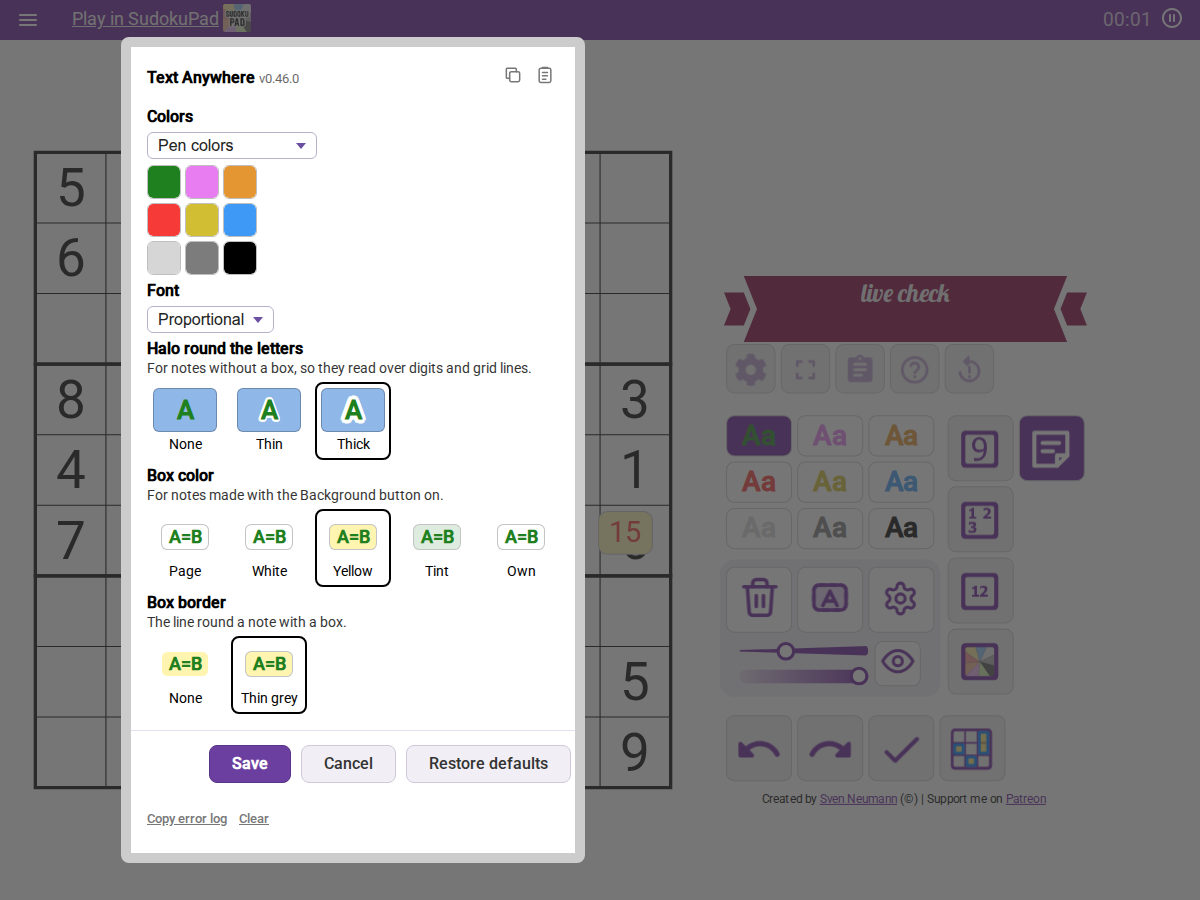
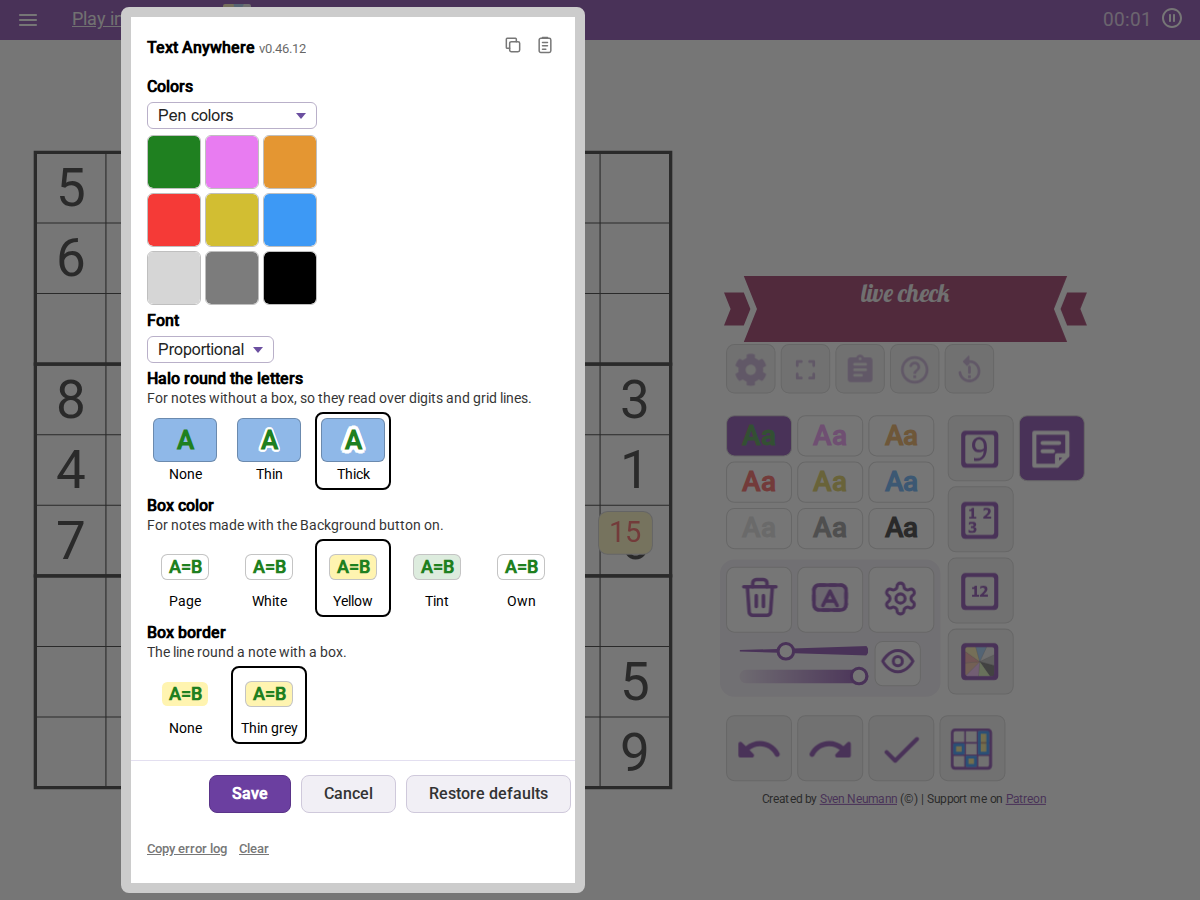
Settings dialogs: the swatch grid is as wide as the preset pulldown (#802) (#811)
* Settings dialogs: the swatch grid is as wide as the preset pulldown (#802)

* Retake Pen Tool Extras slide 16 with the swatch grid as wide as the pulldown (#802)

Closes #802

* Swatch grid: keep the Font pulldown shrink-to-fit, size the grid against the block as the pulldown is, check swatch edges in Text Anywhere's test, retake its dialog picture (#802)

Closes #802

---------

Changed region(s): [[0.0925, 0.0, 0.4933, 0.9956]]

diff --git a/text-anywhere.user.js b/text-anywhere.user.js
@@ -1,7 +1,7 @@
 // ==UserScript==
 // @name         SudokuPad Text Anywhere
 // @namespace    https://github.com/caneff/sudokupad-scripts
-// @version      0.46.8
+// @version      0.46.12
 // @description  Adds a Text Anywhere tool for typed notes on the board or beside it, such as cage sums, in colors of its own. Each puzzle keeps its own notes.
 // @match        https://sudokupad.app/*
 // @match        https://*.sudokupad.app/*
@@ -16,7 +16,7 @@
 (function () {
   'use strict'
 
-  const VERSION = '0.46.8'
+  const VERSION = '0.46.12'
   const TOOL_NAME = 'textanywhere'
   const LAYER_ID = 'text-anywhere-layer'
   const DIALOG_BLUR_PX = 8
@@ -964,6 +964,10 @@
       `${at('color-choice')} { box-sizing: border-box; width: 0; min-width: 100%; margin: 0; font-size: 1rem; padding: 4px 28px 4px 10px; border: 1px solid #b9b0c9; border-radius: 6px; appearance: none; color: #222; background: #fff ${CHOICE_ARROW} no-repeat right 10px center; }`,
       `${at('color-row')} { display: flex; align-items: flex-start; gap: 12px; }`,
       `${at('swatches')} { display: grid; grid-template-columns: repeat(${PICKER_COLUMNS}, ${SWATCH_PX}px); gap: ${SWATCH_GAP_PX}px; }`,
+      // With nothing beside it the grid takes the block's width, so its edges line up with the pulldown's; a block with `beside` content keeps SWATCH_PX swatches, which that content's rows line up with.
+      `${at('color-row')}:has(> .${prefix}swatches:only-child) { width: 0; min-width: 100%; }`,
+      `${at('swatches')}:only-child { width: 100%; grid-template-columns: repeat(${PICKER_COLUMNS}, minmax(${SWATCH_PX}px, 1fr)); }`,
+      `${at('swatches')}:only-child .${prefix}swatch { width: auto; height: auto; aspect-ratio: 1; }`,
       `${at('swatch')} { box-sizing: border-box; display: block; width: ${SWATCH_PX}px; height: ${SWATCH_PX}px; margin: 0; padding: 0; border: 1px solid rgb(0 0 0 / .25); border-radius: 6px; background: none; cursor: pointer; -webkit-appearance: none; appearance: none; }`,
       `${at('swatch')}[data-empty] { border: none; cursor: default; }`,
       `${at('swatch')}[aria-pressed="true"] { border: 2px solid #fff; outline: 3px solid #000; }`,
@@ -2569,7 +2573,9 @@
     `#${DIALOG_ID} input.${CLASS_PREFIX}swatch[data-role="box-custom"] { display: block; margin: 0 0 6px; }`,
     colorBlockCss(CLASS_PREFIX, `#${DIALOG_ID}`),
     // The pulldowns are as wide as their longest option, not as the dialog's column (after colorBlockCss, whose rule they override).
-    `#${DIALOG_ID} .${CLASS_PREFIX}color-choice { width: auto; min-width: 0; }`
+    `#${DIALOG_ID} .${CLASS_PREFIX}color-choice { width: auto; min-width: 0; }`,
+    // The block is as wide as its pulldown, so the swatch grid, which takes the block's width, ends where the pulldown does.
+    `#${DIALOG_ID} .${CLASS_PREFIX}color-block { justify-content: start; }`
   ].join('\n')
 
   // A pasted value is saved and shown at once, whether or not Text Anywhere is current.

diff --git a/pen-tool-extras.user.js b/pen-tool-extras.user.js
@@ -1,7 +1,7 @@
 // ==UserScript==
 // @name         SudokuPad Pen Tool Extras
 // @namespace    https://github.com/caneff/sudokupad-scripts
-// @version      1.32.10
+// @version      1.32.14
 // @description  Adds to SudokuPad's pen tool: customizable pen colors, dashed and arrow lines, and marks on cell edges and grid corners. Turn the pen tool on in SudokuPad's settings first.
 // @homepageURL  https://caneff.github.io/sudokupad-scripts/pen-tool-extras.html
 // @match        https://sudokupad.app/*
@@ -21,7 +21,7 @@
 
   // 1. Core: the settings table, the install steps, the style writer and shared constants
   // The script cannot read its own header (GM_info is absent without Tampermonkey), so @version is repeated here.
-  const VERSION = '1.32.10'
+  const VERSION = '1.32.14'
   const STYLE_ID = 'pen-tool-extras-style'
   const GRID_SELECTOR = '#svgrenderer'
   const PEN_LAYER = '#cell-pen'
@@ -1063,6 +1063,10 @@
       `${at('color-choice')} { box-sizing: border-box; width: 0; min-width: 100%; margin: 0; font-size: 1rem; padding: 4px 28px 4px 10px; border: 1px solid #b9b0c9; border-radius: 6px; appearance: none; color: #222; background: #fff ${CHOICE_ARROW} no-repeat right 10px center; }`,
       `${at('color-row')} { display: flex; align-items: flex-start; gap: 12px; }`,
       `${at('swatches')} { display: grid; grid-template-columns: repeat(${PICKER_COLUMNS}, ${SWATCH_PX}px); gap: ${SWATCH_GAP_PX}px; }`,
+      // With nothing beside it the grid takes the block's width, so its edges line up with the pulldown's; a block with `beside` content keeps SWATCH_PX swatches, which that content's rows line up with.
+      `${at('color-row')}:has(> .${prefix}swatches:only-child) { width: 0; min-width: 100%; }`,
+      `${at('swatches')}:only-child { width: 100%; grid-template-columns: repeat(${PICKER_COLUMNS}, minmax(${SWATCH_PX}px, 1fr)); }`,
+      `${at('swatches')}:only-child .${prefix}swatch { width: auto; height: auto; aspect-ratio: 1; }`,
       `${at('swatch')} { box-sizing: border-box; display: block; width: ${SWATCH_PX}px; height: ${SWATCH_PX}px; margin: 0; padding: 0; border: 1px solid rgb(0 0 0 / .25); border-radius: 6px; background: none; cursor: pointer; -webkit-appearance: none; appearance: none; }`,
       `${at('swatch')}[data-empty] { border: none; cursor: default; }`,
       `${at('swatch')}[aria-pressed="true"] { border: 2px solid #fff; outline: 3px solid #000; }`,

diff --git a/color-by-digit.user.js b/color-by-digit.user.js
@@ -1,7 +1,7 @@
 // ==UserScript==
 // @name         SudokuPad Color by Digit
 // @namespace    https://github.com/caneff/sudokupad-scripts
-// @version      0.25.40
+// @version      0.25.44
 // @description  Colors cells, or the digits and marks in them, by digit, with colors you give to groups of digits, and keeps the colors in step as you solve.
 // @match        https://sudokupad.app/*
 // @match        https://*.sudokupad.app/*
@@ -17,7 +17,7 @@
   'use strict'
 
   // GM_info is absent without Tampermonkey, so the script cannot read @version; keep this equal to it.
-  const VERSION = '0.25.40'
+  const VERSION = '0.25.44'
   // The groups saved before profiles existed. Read when no profiles are saved; never written or removed.
   const LEGACY_GROUPS_KEY = 'ColorByDigit_groups'
   // The profiles: { profiles: [{ name, groups }], active: index, digitActive?: index, useDigitColors?: false }.
@@ -1065,6 +1065,10 @@
       `${at('color-choice')} { box-sizing: border-box; width: 0; min-width: 100%; margin: 0; font-size: 1rem; padding: 4px 28px 4px 10px; border: 1px solid #b9b0c9; border-radius: 6px; appearance: none; color: #222; background: #fff ${CHOICE_ARROW} no-repeat right 10px center; }`,
       `${at('color-row')} { display: flex; align-items: flex-start; gap: 12px; }`,
       `${at('swatches')} { display: grid; grid-template-columns: repeat(${PICKER_COLUMNS}, ${SWATCH_PX}px); gap: ${SWATCH_GAP_PX}px; }`,
+      // With nothing beside it the grid takes the block's width, so its edges line up with the pulldown's; a block with `beside` content keeps SWATCH_PX swatches, which that content's rows line up with.
+      `${at('color-row')}:has(> .${prefix}swatches:only-child) { width: 0; min-width: 100%; }`,
+      `${at('swatches')}:only-child { width: 100%; grid-template-columns: repeat(${PICKER_COLUMNS}, minmax(${SWATCH_PX}px, 1fr)); }`,
+      `${at('swatches')}:only-child .${prefix}swatch { width: auto; height: auto; aspect-ratio: 1; }`,
       `${at('swatch')} { box-sizing: border-box; display: block; width: ${SWATCH_PX}px; height: ${SWATCH_PX}px; margin: 0; padding: 0; border: 1px solid rgb(0 0 0 / .25); border-radius: 6px; background: none; cursor: pointer; -webkit-appearance: none; appearance: none; }`,
       `${at('swatch')}[data-empty] { border: none; cursor: default; }`,
       `${at('swatch')}[aria-pressed="true"] { border: 2px solid #fff; outline: 3px solid #000; }`,

diff --git a/site/index.html b/site/index.html
@@ -44,7 +44,7 @@
         <img class="slide" src="https://raw.githubusercontent.com/caneff/sudokupad-scripts/main/docs/research/pen-tool-extras/pen-tool-extras-slide-13-outline-on.png?v=cabbe4c" alt="The same yellow line across dark cells with a white outline, easy to see" width="684" height="430">
         <img class="slide" src="https://raw.githubusercontent.com/caneff/sudokupad-scripts/main/docs/research/pen-tool-extras/pen-tool-extras-slide-14-erase.png?v=e3366a1" alt="A red ring on the first line, where a right press is held" width="684" height="430">
         <img class="slide" src="https://raw.githubusercontent.com/caneff/sudokupad-scripts/main/docs/research/pen-tool-extras/pen-tool-extras-slide-15-erased.png?v=aa3a9a1" alt="The board with the first line gone and every other line and mark still there" width="684" height="430">
-        <img class="slide" src="https://raw.githubusercontent.com/caneff/sudokupad-scripts/main/docs/research/pen-tool-extras/pen-tool-extras-slide-16-settings.png?v=1faa17d" alt="A red ring on the settings button in the pen panel, beside the Pen Tool Extras settings dialog it opens: pen color presets, Thickness and Opacity, line styles, the marks each click cycles through, White outlines, and Save, Cancel and Restore defaults" width="684" height="430">
+        <img class="slide" src="https://raw.githubusercontent.com/caneff/sudokupad-scripts/main/docs/research/pen-tool-extras/pen-tool-extras-slide-16-settings.png?v=b545bbe" alt="A red ring on the settings button in the pen panel, beside the Pen Tool Extras settings dialog it opens: pen color presets, Thickness and Opacity, line styles, the marks each click cycles through, White outlines, and Save, Cancel and Restore defaults" width="684" height="430">
       </div>
       <div class="slide-bar">
         <div class="slide-captions">

diff --git a/site/pen-tool-extras.html b/site/pen-tool-extras.html
@@ -31,7 +31,7 @@
       <img class="slide" src="https://raw.githubusercontent.com/caneff/sudokupad-scripts/main/docs/research/pen-tool-extras/pen-tool-extras-slide-13-outline-on.png?v=cabbe4c" alt="The same yellow line across dark cells with a white outline, easy to see" width="684" height="430">
       <img class="slide" src="https://raw.githubusercontent.com/caneff/sudokupad-scripts/main/docs/research/pen-tool-extras/pen-tool-extras-slide-14-erase.png?v=e3366a1" alt="A red ring on the first line, where a right press is held" width="684" height="430">
       <img class="slide" src="https://raw.githubusercontent.com/caneff/sudokupad-scripts/main/docs/research/pen-tool-extras/pen-tool-extras-slide-15-erased.png?v=aa3a9a1" alt="The board with the first line gone and every other line and mark still there" width="684" height="430">
-      <img class="slide" src="https://raw.githubusercontent.com/caneff/sudokupad-scripts/main/docs/research/pen-tool-extras/pen-tool-extras-slide-16-settings.png?v=1faa17d" alt="A red ring on the settings button in the pen panel, beside the Pen Tool Extras settings dialog it opens: pen color presets, Thickness and Opacity, line styles, the marks each click cycles through, White outlines, and Save, Cancel and Restore defaults" width="684" height="430">
+      <img class="slide" src="https://raw.githubusercontent.com/caneff/sudokupad-scripts/main/docs/research/pen-tool-extras/pen-tool-extras-slide-16-settings.png?v=b545bbe" alt="A red ring on the settings button in the pen panel, beside the Pen Tool Extras settings dialog it opens: pen color presets, Thickness and Opacity, line styles, the marks each click cycles through, White outlines, and Save, Cancel and Restore defaults" width="684" height="430">
     </div>
     <div class="slide-bar">
       <div class="slide-captions">

diff --git a/lib/color-picker.js b/lib/color-picker.js
@@ -52,6 +52,10 @@ function colorBlockCss (prefix, scope) {
     `${at('color-choice')} { box-sizing: border-box; width: 0; min-width: 100%; margin: 0; font-size: 1rem; padding: 4px 28px 4px 10px; border: 1px solid #b9b0c9; border-radius: 6px; appearance: none; color: #222; background: #fff ${CHOICE_ARROW} no-repeat right 10px center; }`,
     `${at('color-row')} { display: flex; align-items: flex-start; gap: 12px; }`,
     `${at('swatches')} { display: grid; grid-template-columns: repeat(${PICKER_COLUMNS}, ${SWATCH_PX}px); gap: ${SWATCH_GAP_PX}px; }`,
+    // With nothing beside it the grid takes the block's width, so its edges line up with the pulldown's; a block with `beside` content keeps SWATCH_PX swatches, which that content's rows line up with.
+    `${at('color-row')}:has(> .${prefix}swatches:only-child) { width: 0; min-width: 100%; }`,
+    `${at('swatches')}:only-child { width: 100%; grid-template-columns: repeat(${PICKER_COLUMNS}, minmax(${SWATCH_PX}px, 1fr)); }`,
+    `${at('swatches')}:only-child .${prefix}swatch { width: auto; height: auto; aspect-ratio: 1; }`,
     `${at('swatch')} { box-sizing: border-box; display: block; width: ${SWATCH_PX}px; height: ${SWATCH_PX}px; margin: 0; padding: 0; border: 1px solid rgb(0 0 0 / .25); border-radius: 6px; background: none; cursor: pointer; -webkit-appearance: none; appearance: none; }`,
     `${at('swatch')}[data-empty] { border: none; cursor: default; }`,
     `${at('swatch')}[aria-pressed="true"] { border: 2px solid #fff; outline: 3px solid #000; }`,

diff --git a/lib/color-picker.test.js b/lib/color-picker.test.js
@@ -99,6 +99,9 @@ test('the color block\'s styles are scoped by the script\'s editor and class pre
 test('the grid is three columns of square swatches of one size, and a free and a palette swatch share that look', () => {
   const css = colorBlockCss('pte-', '#editor')
   assert.match(css, new RegExp(`\\.pte-swatches \\{[^}]*grid-template-columns: repeat\\(3, ${SWATCH_PX}px\\);[^}]*gap: ${SWATCH_GAP_PX}px;`))
+  assert.match(css, new RegExp(`\\.pte-swatches:only-child \\{[^}]*width: 100%;[^}]*grid-template-columns: repeat\\(3, minmax\\(${SWATCH_PX}px, 1fr\\)\\);`))
+  assert.match(css, /\.pte-color-row:has\(> \.pte-swatches:only-child\) \{[^}]*width: 0; min-width: 100%;/)
+  assert.match(css, /\.pte-swatches:only-child \.pte-swatch \{[^}]*width: auto; height: auto; aspect-ratio: 1;/)
   const swatch = rulesOf(css).find((r) => r.selectors.includes('#editor .pte-swatch'))
   assert.match(swatch.body, new RegExp(`width: ${SWATCH_PX}px; height: ${SWATCH_PX}px;`))
   assert.match(css, /\.pte-swatch\[aria-pressed="true"\] \{[^}]*outline: 3px solid #000/)
